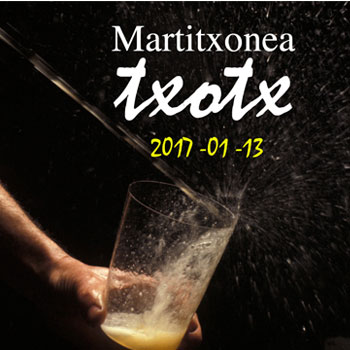
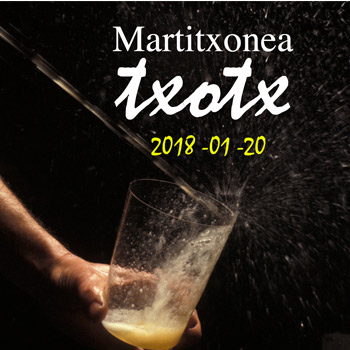
2018 temporada

diff --git a/es/index.html b/es/index.html
@@ -135,7 +135,7 @@
                   <div class="thumbnail thumbnail-1">
                 <h3>Temporada de txotx</h3>
                 <img  src="../img/txotx-2014.jpg" alt="txotx 2014">
-                <section> <strong>13-01-2017 / 01-05-2016</strong>
+                <section> <strong>20-01-2018 / 01-05-2018</strong>
                       <p>Temporada para degustar sidra de las kupelas.
                       La sidrería  martitxonea os ofrece sidra natural de calidad.</p>
                       <!--<a href="#" class="btn btn-1">Gehiago irakurri</a> --></section>
@@ -199,8 +199,8 @@
           <li>Sidrería MARTITXONEA - Aldatz -  Navarra. Teléfono: <a href="tel:+34948604607">948 604 607</a></li>
 
         </ul>
-    <div class="privacy pull-left">Designed by <a href="http://www.thesberdin.com/" target="_blank" rel="nofollow">thesberdin.com</a> </div>
-  </div>
+    <!--<div class="privacy pull-left">Designed by <a href="http://www.thesberdin.com/" target="_blank" rel="nofollow">thesberdin.com</a> </div>
+  </div>-->
     </footer>
 <script type="text/javascript" src="../js/bootstrap.js"></script>
 </body>

diff --git a/index.html b/index.html
@@ -135,7 +135,7 @@
                   <div class="thumbnail thumbnail-1">
                 <h3>Txotx Garaia</h3>
                 <img  src="img/txotx-2014.jpg" alt="txotx 2014">
-                <section> <strong>2017-01-13 / 2017-05-01</strong>
+                <section> <strong>2018-01-20 / 2018-05-01</strong>
                       <p>Sagardoa kupeletik dastatzeko garaia.
                       Kalitatezko sagardo naturala eskaintzen dizue Martitxonea sagardotegiak. </p>
                       <!--<a href="#" class="btn btn-1">Gehiago irakurri</a> --></section>
@@ -199,8 +199,8 @@
           <li>MARTITXONEA sagardotegia  - Aldatz -  Nafarroa. Telefonoa: <a href="tel:+34948604607">948 604 607</a></li>
 
         </ul>
-    <div class="privacy pull-left">Designed by <a href="http://www.thesberdin.com/" target="_blank" rel="nofollow">thesberdin.com</a> </div>
-  </div>
+    <!--<div class="privacy pull-left">Designed by <a href="http://www.thesberdin.com/" target="_blank" rel="nofollow">thesberdin.com</a> </div>
+  </div>-->
     </footer>
 <script type="text/javascript" src="js/bootstrap.js"></script>
 </body>
